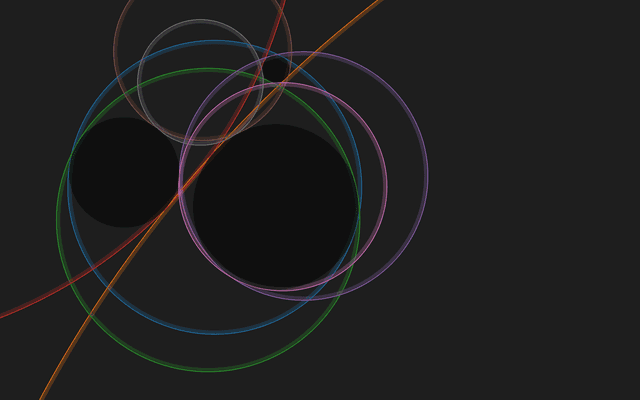
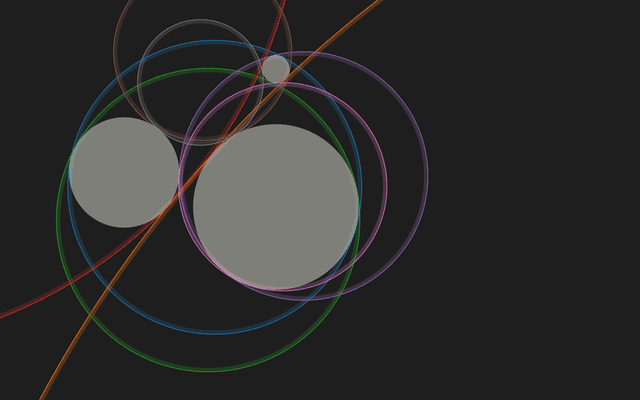
apollonius dark

Changed region(s): [[0.0938, 0.27, 0.5625, 0.75], [0.4062, 0.12, 0.4688, 0.21]]

diff --git a/src/d3/apollonius-problem.md b/src/d3/apollonius-problem.md
@@ -244,11 +244,12 @@ function clamp(x, lo, hi) {
 
 .circle {
   fill-opacity: .5;
+  fill: currentColor;
 }
 
 .ring {
   fill: none;
-  stroke: #000;
+  stroke: currentColor;
   pointer-events: none;
 }
 
